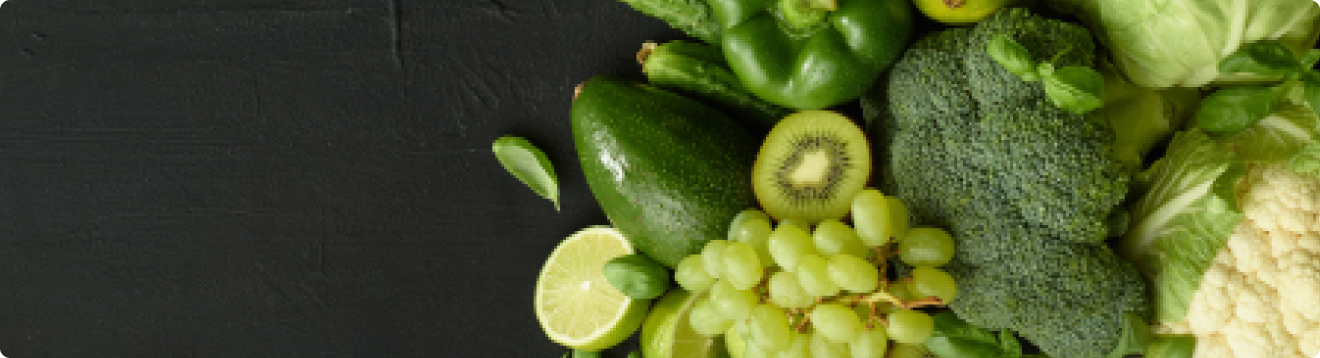
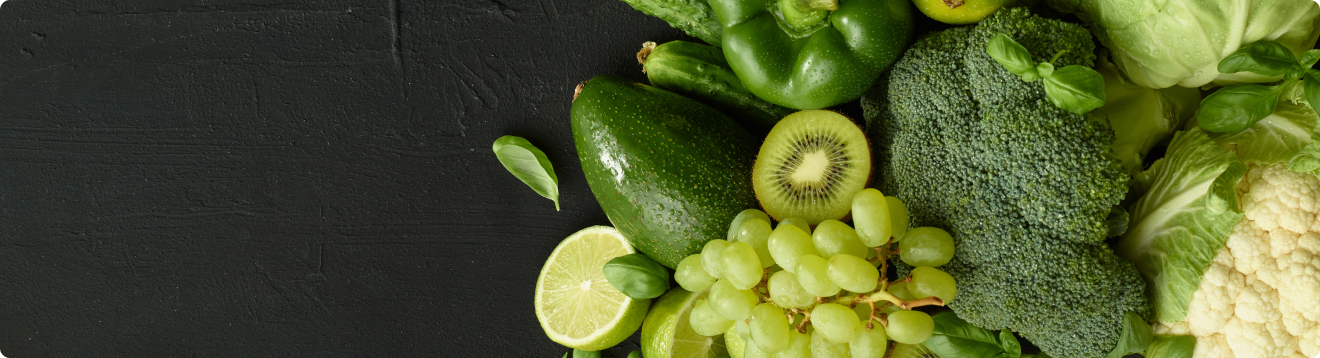
added overlay bg

diff --git a/dist/main.css b/dist/main.css
@@ -10226,6 +10226,12 @@ a {
     -webkit-transition: all 0.4s ease-in-out;
     transition: all 0.4s ease-in-out; }
 
+.header--two .header__category-content-menu-bar button {
+  color: #fff;
+  width: 64px;
+  height: 64px;
+  background-color: #00b207; }
+
 .header--two .header__category-content .bv_mainselect {
   padding: 0px; }
 
@@ -10262,6 +10268,9 @@ a {
 
 .header--two .header__category-content .bv_ul_inner.bv_background {
   z-index: 9; }
+
+.header--two .header__navigation-menu {
+  margin-left: 32px; }
 
 .header--two .header__activity-icons button {
   margin-right: 28px;
@@ -10697,6 +10706,8 @@ body.overlay {
 
 .banner {
   position: relative; }
+  .banner__wrapper-text {
+    z-index: 1; }
   @media (min-width: 575px) {
     .banner--03 .swiper-pagination, .banner--04 .swiper-pagination {
       bottom: 34px; } }
@@ -10768,6 +10779,14 @@ body.overlay {
         padding: 0; }
     .banner--01 .banner__wrapper--img-01 {
       height: 600px; }
+      .banner--01 .banner__wrapper--img-01::after {
+        content: '';
+        position: absolute;
+        top: 0;
+        left: 0;
+        width: 100%;
+        height: 100%;
+        background: linear-gradient(90.02deg, rgba(0, 0, 0, 0.7) 0.03%, rgba(0, 0, 0, 0) 91.31%); }
       .banner--01 .banner__wrapper--img-01 .banner__wrapper-text {
         top: 165px;
         left: 65px; }
@@ -11224,7 +11243,10 @@ body.overlay {
     left: 0;
     width: 100%;
     height: 100%;
-    background-color: rgba(0, 38, 3, 0.8); }
+    background: linear-gradient(90.02deg, rgba(0, 0, 0, 0.7) 0.03%, rgba(0, 0, 0, 0) 91.31%); }
+    @media (max-width: 991px) {
+      .banner-sale__img-wrapper::after {
+        background: rgba(0, 38, 3, 0.8); } }
   .banner-sale__img-wrapper img {
     width: inherit;
     height: inherit;
@@ -12917,6 +12939,14 @@ body.overlay {
   width: 100%;
   height: 120px;
   overflow: hidden; }
+  .breedcrumb__img-wrapper::after {
+    content: '';
+    position: absolute;
+    top: 0;
+    left: 0;
+    width: 100%;
+    height: 100%;
+    background: linear-gradient(90.02deg, rgba(0, 0, 0, 0.7) 0.03%, rgba(0, 0, 0, 0) 91.31%); }
   .breedcrumb__img-wrapper img {
     width: inherit;
     height: inherit;
@@ -12935,7 +12965,8 @@ body.overlay {
   -webkit-box-align: center;
   -webkit-align-items: center;
       -ms-flex-align: center;
-          align-items: center; }
+          align-items: center;
+  z-index: 1; }
   @media (max-width: 575px) {
     .breedcrumb__content li:nth-child(2), .breedcrumb__content li:nth-child(3) {
       display: none; } }
@@ -14845,11 +14876,22 @@ body.overlay {
 
 .cards-ss {
   position: relative; }
-  .cards-ss__img-wrapper img {
-    width: inherit;
-    height: inherit;
-    -o-object-fit: cover;
-       object-fit: cover; }
+  .cards-ss__img-wrapper {
+    position: relative;
+    overflow: hidden; }
+    .cards-ss__img-wrapper::after {
+      content: '';
+      position: absolute;
+      top: 0;
+      left: 0;
+      width: 100%;
+      height: 100%;
+      background: linear-gradient(90.02deg, rgba(0, 0, 0, 0.7) 0.03%, rgba(0, 0, 0, 0) 91.31%); }
+    .cards-ss__img-wrapper img {
+      width: inherit;
+      height: inherit;
+      -o-object-fit: cover;
+         object-fit: cover; }
   .cards-ss--lg .cards-ss__img-wrapper {
     width: 100%;
     height: 536px;
@@ -14946,7 +14988,8 @@ body.overlay {
     width: 100%;
     -webkit-transform: translateX(-50%);
             transform: translateX(-50%);
-    color: #fff; }
+    color: #fff;
+    z-index: 1; }
     .cards-ss__content h6, .cards-ss__content .h6 {
       letter-spacing: 0.03em;
       margin-bottom: 12px;
@@ -17391,6 +17434,14 @@ body.overlay {
   overflow: hidden;
   position: relative;
   z-index: 1; }
+  .banner-sales__content::after {
+    content: '';
+    position: absolute;
+    top: 0;
+    left: 0;
+    width: 100%;
+    height: 100%;
+    background: linear-gradient(90.02deg, rgba(0, 0, 0, 0.7) 0.03%, rgba(0, 0, 0, 0) 91.31%); }
   @media (max-width: 991px) {
     .banner-sales__content {
       margin-bottom: 24px; } }

diff --git a/src/scss/layout/_banner.scss b/src/scss/layout/_banner.scss
@@ -2,6 +2,13 @@
 .banner {
   position: relative;
 
+  &__wrapper-img {
+  }
+
+  &__wrapper-text {
+    z-index: 1;
+  }
+
   // Pagination
   &--03,
   &--04 {
@@ -78,6 +85,7 @@
           width: 100%;
           border-radius: 10px;
           overflow: hidden;
+
           img {
             width: inherit;
             height: inherit;
@@ -104,6 +112,19 @@
 
         &--img-01 {
           height: 600px;
+          &::after {
+            content: '';
+            position: absolute;
+            top: 0;
+            left: 0;
+            width: 100%;
+            height: 100%;
+            background: linear-gradient(
+              90.02deg,
+              rgba(0, 0, 0, 0.7) 0.03%,
+              rgba(0, 0, 0, 0) 91.31%
+            );
+          }
 
           .banner__wrapper-text {
             top: 165px;
@@ -305,7 +326,6 @@
       border-bottom-right-radius: 0px;
       margin: auto;
       background-color: color(green-0);
-      // padding-left: 95px;
       padding-left: 85px;
       margin-top: 24px;
       display: flex;
@@ -691,7 +711,14 @@
       left: 0;
       width: 100%;
       height: 100%;
-      background-color: rgba(0, 38, 3, 0.8);
+      background: linear-gradient(
+        90.02deg,
+        rgba(0, 0, 0, 0.7) 0.03%,
+        rgba(0, 0, 0, 0) 91.31%
+      );
+      @include max(991px) {
+        background: rgba(0, 38, 3, 0.8);
+      }
     }
     img {
       width: inherit;

diff --git a/src/scss/layout/_header.scss b/src/scss/layout/_header.scss
@@ -564,14 +564,14 @@
       }
       // ites will be delete
 
-      // &__category-content-menu-bar {
-      //   button {
-      //     color: #fff;
-      //     width: 64px;
-      //     height: 64px;
-      //     background-color: color(primary);
-      //   }
-      // }
+      &__category-content-menu-bar {
+        button {
+          color: #fff;
+          width: 64px;
+          height: 64px;
+          background-color: color(primary);
+        }
+      }
 
       &__category-content {
         .bv_mainselect {
@@ -607,10 +607,10 @@
           z-index: 9;
         }
       }
-      // // ites will be delete
-      // &__navigation-menu {
-      //   margin-left: 32px;
-      // }
+      // ites will be delete
+      &__navigation-menu {
+        margin-left: 32px;
+      }
 
       &__activity-icons {
         button {

diff --git a/src/scss/components/_cards.scss b/src/scss/components/_cards.scss
@@ -587,6 +587,21 @@
   position: relative;
 
   &__img-wrapper {
+    position: relative;
+    overflow: hidden;
+    &::after {
+      content: '';
+      position: absolute;
+      top: 0;
+      left: 0;
+      width: 100%;
+      height: 100%;
+      background: linear-gradient(
+        90.02deg,
+        rgba(0, 0, 0, 0.7) 0.03%,
+        rgba(0, 0, 0, 0) 91.31%
+      );
+    }
     img {
       width: inherit;
       height: inherit;
@@ -765,7 +780,7 @@
     width: 100%;
     transform: translateX(-50%);
     color: #fff;
-
+    z-index: 1;
     h6 {
       letter-spacing: 0.03em;
       margin-bottom: 12px;

diff --git a/src/scss/layout/_breadcrumb.scss b/src/scss/layout/_breadcrumb.scss
@@ -4,6 +4,19 @@
     width: 100%;
     height: 120px;
     overflow: hidden;
+    &::after {
+      content: '';
+      position: absolute;
+      top: 0;
+      left: 0;
+      width: 100%;
+      height: 100%;
+      background: linear-gradient(
+        90.02deg,
+        rgba(0, 0, 0, 0.7) 0.03%,
+        rgba(0, 0, 0, 0) 91.31%
+      );
+    }
     img {
       width: inherit;
       height: inherit;
@@ -17,6 +30,7 @@
     transform: translateY(-50%);
     display: flex;
     align-items: center;
+    z-index: 1;
     li {
       &:nth-child(2),
       &:nth-child(3) {

diff --git a/src/scss/pages/_shop.scss b/src/scss/pages/_shop.scss
@@ -35,6 +35,19 @@
     overflow: hidden;
     position: relative;
     z-index: 1;
+    &::after {
+      content: '';
+      position: absolute;
+      top: 0;
+      left: 0;
+      width: 100%;
+      height: 100%;
+      background: linear-gradient(
+        90.02deg,
+        rgba(0, 0, 0, 0.7) 0.03%,
+        rgba(0, 0, 0, 0) 91.31%
+      );
+    }
     @include max(991px) {
       margin-bottom: 24px;
     }

diff --git a/shop-02.html b/shop-02.html
@@ -2947,12 +2947,6 @@
                 offset: false,
                 placeholder: "USD",
             });
-            var demo3 = new BVSelect({
-                selector: "#sort",
-                searchbox: false,
-                offset: false,
-                placeholder: "Latest",
-            });
         </script>
     </body>
 </html>

diff --git a/src/scss/pages/_home.scss b/src/scss/pages/_home.scss
@@ -833,16 +833,6 @@
 
 // Banner sales
 .banner-sales {
-  // &:hover {
-  //   .banner-sales {
-  //     &__overlay {
-  //       &-img {
-  //         color: color(soft-primary);
-  //         transition: all 0.6s linear;
-  //       }
-  //     }
-  //   }
-  // }
   @include max(767px) {
     overflow: hidden;
   }
